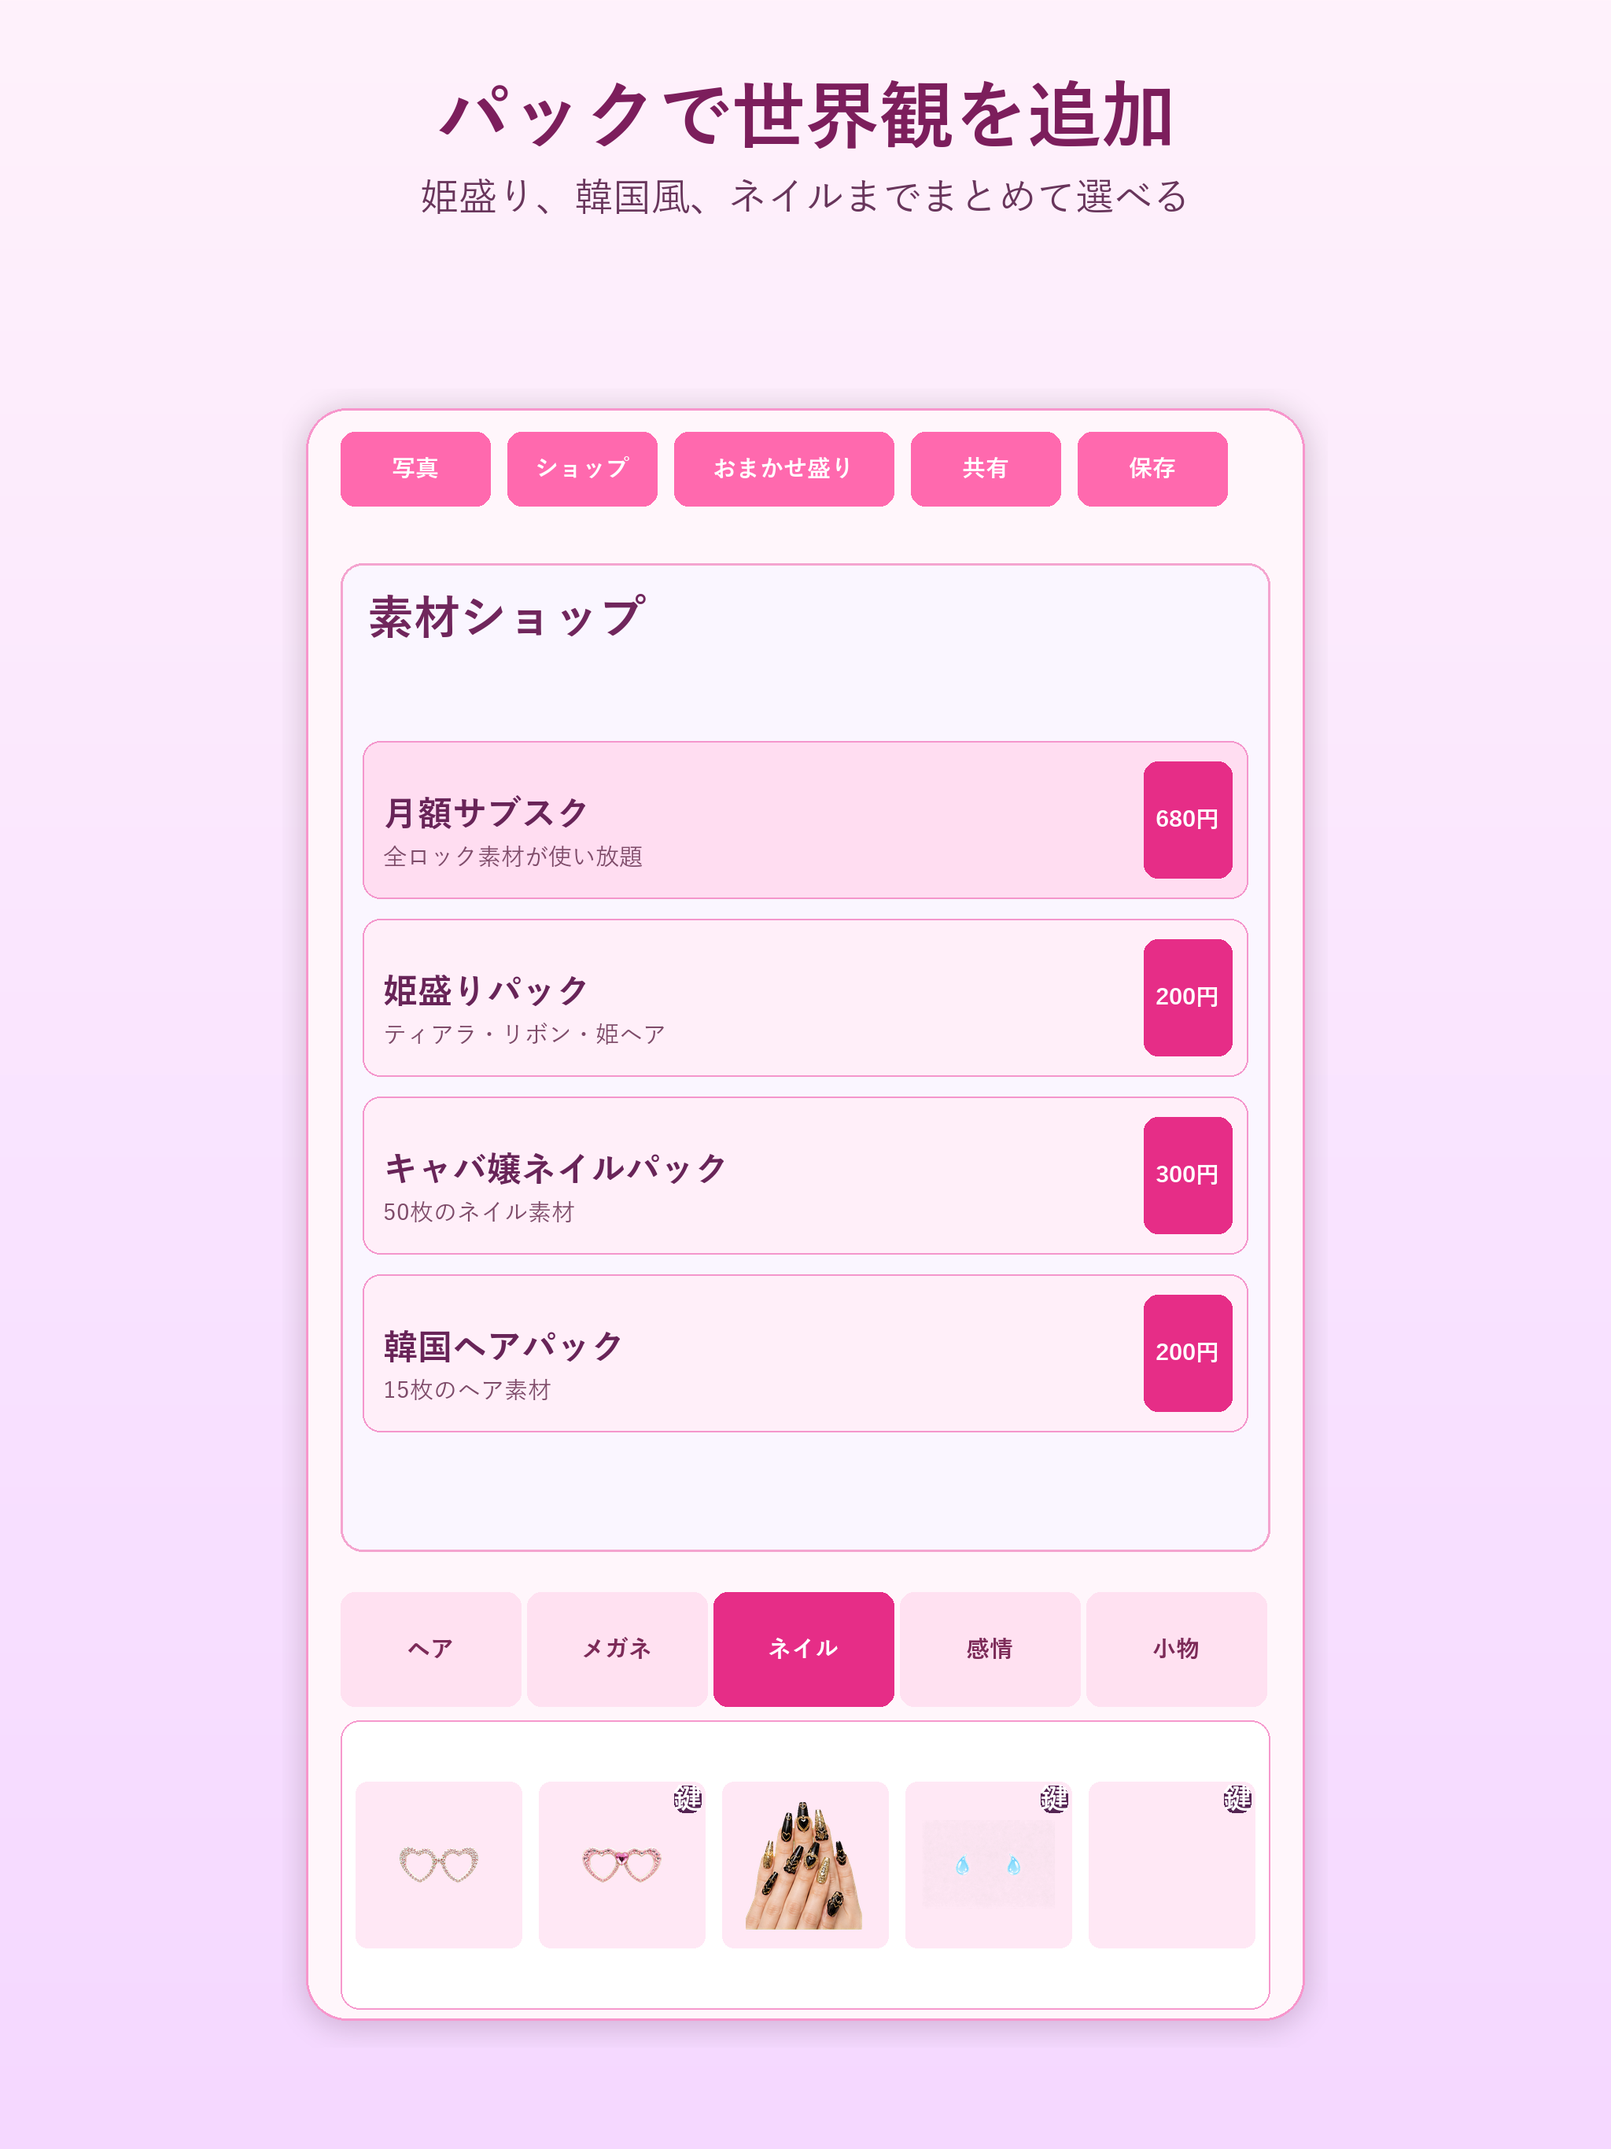
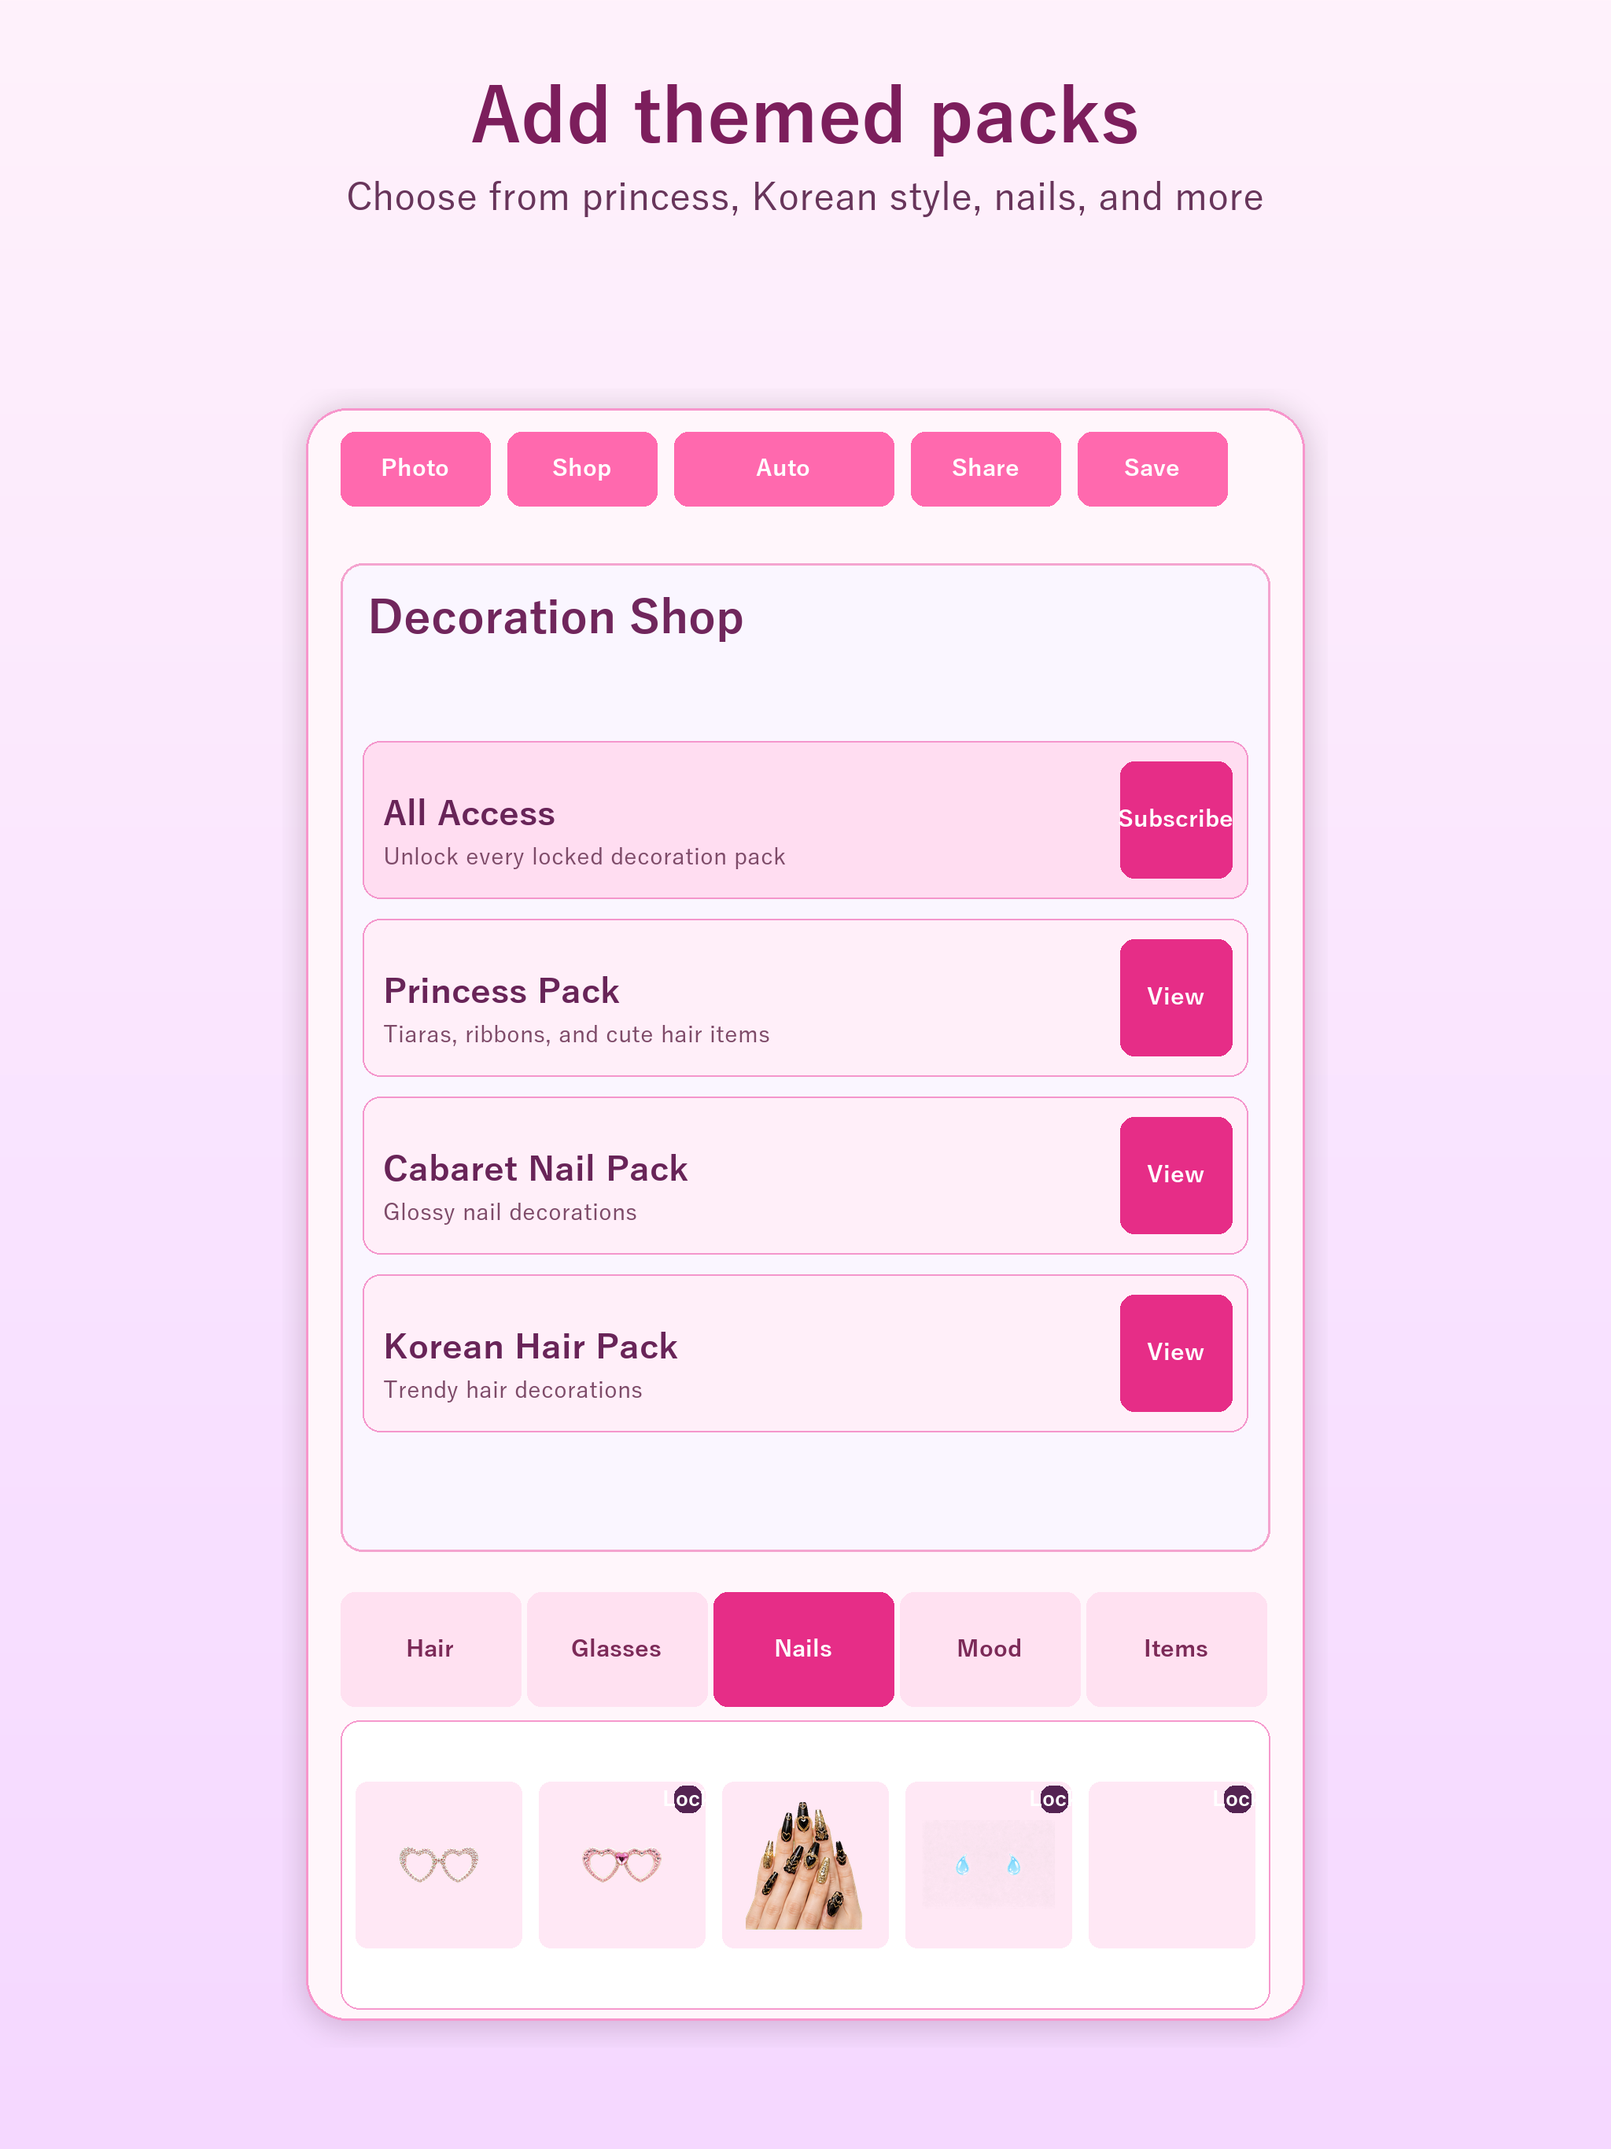
Address Morimori subscription review notes

diff --git a/ios/MorimoriPhotoMaker/MorimoriPhotoMaker/ContentView.swift b/ios/MorimoriPhotoMaker/MorimoriPhotoMaker/ContentView.swift
@@ -325,23 +325,31 @@ private struct StoreSheet: View {
         NavigationStack {
             List {
                 if let product = purchaseStore.subscriptionProduct {
-                    Section("サブスク") {
+                    Section("Subscription") {
                         productRow(
-                            title: "全ロック素材使い放題",
-                            detail: "すべての課金パックを月額で解放",
+                            title: "All Access Monthly",
+                            detail: "Auto-renews every month. Unlocks all paid decoration packs.",
                             price: product.displayPrice,
                             action: { Task { await purchaseStore.purchase(product) } }
                         )
                     }
+
+                    Section("Subscription Info") {
+                        Link("Terms of Use (EULA)", destination: URL(string: "https://www.apple.com/legal/internet-services/itunes/dev/stdeula/")!)
+                        Link("Privacy Policy", destination: URL(string: "https://snarfnet.github.io/privacy.html")!)
+                        Text("You can manage or cancel this subscription from your Apple ID subscription settings after purchase.")
+                            .font(.caption)
+                            .foregroundStyle(.secondary)
+                    }
                 }
 
-                Section("単品パック") {
+                Section("Packs") {
                     ForEach(MoriPack.allCases.filter { $0.productID != nil }) { pack in
                         let product = purchaseStore.product(for: pack)
                         productRow(
                             title: pack.title,
-                            detail: pack.itemCount.map { "\($0)点" } ?? "追加素材",
-                            price: product?.displayPrice ?? pack.priceYen.map { "\($0)円" } ?? "",
+                            detail: pack.itemCount.map { "\($0) items" } ?? "Decoration items",
+                            price: product?.displayPrice ?? pack.priceYen.map { "JPY \($0)" } ?? "",
                             highlighted: pack == promptPack,
                             purchased: purchaseStore.purchasedPacks.contains(pack),
                             action: {
@@ -353,21 +361,21 @@ private struct StoreSheet: View {
                 }
 
                 Section {
-                    Button("購入を復元") {
+                    Button("Restore Purchases") {
                         Task { await purchaseStore.restore() }
                     }
                 }
             }
-            .navigationTitle("ショップ")
+            .navigationTitle("Shop")
             .toolbar {
                 ToolbarItem(placement: .topBarTrailing) {
-                    Button("閉じる") { dismiss() }
+                    Button("Close") { dismiss() }
                 }
             }
             .task {
                 await purchaseStore.load()
             }
-            .alert("お知らせ", isPresented: Binding(get: { purchaseStore.errorMessage != nil }, set: { if !$0 { purchaseStore.errorMessage = nil } })) {
+            .alert("Notice", isPresented: Binding(get: { purchaseStore.errorMessage != nil }, set: { if !$0 { purchaseStore.errorMessage = nil } })) {
                 Button("OK", role: .cancel) {}
             } message: {
                 Text(purchaseStore.errorMessage ?? "")
@@ -393,11 +401,11 @@ private struct StoreSheet: View {
             }
             Spacer()
             if purchased {
-                Text("購入済み")
+                Text("Purchased")
                     .font(.caption.weight(.bold))
                     .foregroundStyle(.secondary)
             } else {
-                Button(price.isEmpty ? "読み込み中" : price, action: action)
+                Button(price.isEmpty ? "Loading" : price, action: action)
                     .disabled(price.isEmpty)
                     .buttonStyle(.borderedProminent)
             }

diff --git a/ios/MorimoriPhotoMaker/scripts/submit_production.py b/ios/MorimoriPhotoMaker/scripts/submit_production.py
@@ -21,25 +21,29 @@ SCREENSHOT_GROUPS = [
 
 META = {
     "ja": {
-        "description": """盛り盛りフォトメーカーは、写真に髪型、メイク、メガネ、ネイル、感情スタンプ、小物を重ねて遊べる写真デコアプリです。
+        "description": """Morimori Photo Maker lets you decorate photos with hair, makeup, glasses, nails, emotion stickers, and cute accessories.
 
-写真を選んだら、好きなカテゴリーから素材をタップするだけ。位置、大きさ、回転、透明度を調整して、自分だけの盛り盛り画像を作れます。
+Pick a photo, tap a decoration, then adjust position, scale, rotation, and opacity. Save the finished image to Photos and share it with friends or on social media.
 
-無料素材に加えて、韓国風、姫盛り、昭和バブル、ヤンキー、ネイル、感情素材などのパックも用意しています。単品パックで必要な素材だけ追加したり、月額サブスクでロック素材をまとめて使ったりできます。
+Free items are included. Optional single packs and an auto-renewable All Access monthly subscription are available in the in-app shop.
 
-作った画像は写真アプリに保存できます。SNS用のプロフィール画像、友だちへのネタ画像、イベント前の盛り加工にどうぞ。""",
-        "keywords": "写真加工,デコ,盛り,メイク,髪型,メガネ,ネイル,スタンプ,かわいい,サブスク",
-        "whatsNew": "初回リリースです。",
-        "promotionalText": "写真にメイク、髪型、メガネ、ネイルを重ねて、かわいく盛れる写真デコアプリ。",
+Terms of Use (EULA): https://www.apple.com/legal/internet-services/itunes/dev/stdeula/
+Privacy Policy: https://snarfnet.github.io/privacy.html""",
+        "keywords": "photo,decoration,makeup,hair,glasses,nails,stickers,kawaii,selfie,editor",
+        "whatsNew": "Initial release.",
+        "promotionalText": "Decorate photos with cute makeup, hair, glasses, nails, and stickers.",
         "marketingUrl": "https://snarfnet.github.io/",
         "supportUrl": "https://snarfnet.github.io/",
     },
     "en-US": {
-        "description": """Morimori Photo Maker is a cute photo decoration app for layering hairstyles, makeup, glasses, nails, emotion stickers, and accessories onto your photos.
+        "description": """Morimori Photo Maker lets you decorate photos with hair, makeup, glasses, nails, emotion stickers, and cute accessories.
 
-Pick a photo, tap a decoration, then adjust position, scale, rotation, and opacity. Create a playful edited image for your album, profile, or social posts.
+Pick a photo, tap a decoration, then adjust position, scale, rotation, and opacity. Save the finished image to Photos and share it with friends or on social media.
 
-Use free items, buy individual themed packs, or subscribe monthly to unlock all locked items.""",
+Free items are included. Optional single packs and an auto-renewable All Access monthly subscription are available in the in-app shop.
+
+Terms of Use (EULA): https://www.apple.com/legal/internet-services/itunes/dev/stdeula/
+Privacy Policy: https://snarfnet.github.io/privacy.html""",
         "keywords": "photo,decoration,makeup,hair,glasses,nails,stickers,kawaii,selfie,editor",
         "whatsNew": "Initial release.",
         "promotionalText": "Decorate photos with cute makeup, hair, glasses, nails, and stickers.",
@@ -202,7 +206,7 @@ def update_app_info_localizations(app_info_id):
     localizations = list_all(f"/appInfos/{app_info_id}/appInfoLocalizations?limit=20")
     for loc in localizations:
         locale = loc["attributes"].get("locale")
-        subtitle = "写真をかわいく盛れるデコアプリ" if locale == "ja" else "Cute photo decoration"
+        subtitle = "Cute photo decoration"
         response = api("PATCH", f"/appInfoLocalizations/{loc['id']}", data=json_body({
             "data": {
                 "type": "appInfoLocalizations",
@@ -288,7 +292,7 @@ def ensure_review_detail(version_id):
         "contactPhone": "+1 844 209 0611",
         "contactEmail": "support@snarfnet.github.io",
         "demoAccountRequired": False,
-        "notes": "ログイン不要です。写真は端末内で処理します。アプリ内課金はStoreKitで単品パック購入と月額サブスクに対応しています。",
+        "notes": "No login is required. Photos are processed on device. The subscription purchase screen includes functional Terms of Use (EULA) and Privacy Policy links. The App Store description also includes both links.",
     }
     response = api("GET", f"/appStoreVersions/{version_id}/appStoreReviewDetail")
     body = response.json() if response.text else {}

diff --git a/ios/MorimoriPhotoMaker/scripts/generate_app_store_screenshots.py b/ios/MorimoriPhotoMaker/scripts/generate_app_store_screenshots.py
@@ -103,11 +103,11 @@ def draw_app_frame(base, box, variant):
     pad = int(w * 0.035)
     stage = (x1 + pad, y1 + header_h + pad, x2 - pad, y2 - tabs_h - tray_h - pad)
 
-    buttons = ["写真", "ショップ", "おまかせ盛り", "共有", "保存"]
+    buttons = ["Photo", "Shop", "Auto", "Share", "Save"]
     bx = x1 + pad
     by = y1 + int(header_h * 0.2)
     for label in buttons:
-        bw = int(w * (0.15 if label != "おまかせ盛り" else 0.22))
+        bw = int(w * (0.15 if label != "Auto" else 0.22))
         rounded(draw, (bx, by, bx + bw, by + int(header_h * 0.62)), 18, (255, 105, 174))
         centered(draw, (bx + bw // 2, by + int(header_h * 0.31)), label, (255, 255, 255), max(18, int(w * 0.024)), True)
         bx += bw + int(w * 0.018)
@@ -127,7 +127,7 @@ def draw_app_frame(base, box, variant):
         add_sample_deco(base, stage, variant)
 
     tab_y = y2 - tabs_h - tray_h
-    tabs = ["ヘア", "メガネ", "ネイル", "感情", "小物"]
+    tabs = ["Hair", "Glasses", "Nails", "Mood", "Items"]
     tx = x1 + pad
     for index, label in enumerate(tabs):
         tw = int((w - pad * 2) / len(tabs) - 7)
@@ -168,21 +168,21 @@ def draw_shop_content(draw, stage):
     sx1, sy1, sx2, sy2 = stage
     sw, sh = sx2 - sx1, sy2 - sy1
     title_size = max(24, int(sw * 0.05))
-    text(draw, (sx1 + 34, sy1 + 38), "素材ショップ", (112, 38, 92), title_size, True)
+    text(draw, (sx1 + 34, sy1 + 38), "Decoration Shop", (112, 38, 92), title_size, True)
     rows = [
-        ("月額サブスク", "全ロック素材が使い放題", "680円"),
-        ("姫盛りパック", "ティアラ・リボン・姫ヘア", "200円"),
-        ("キャバ嬢ネイルパック", "50枚のネイル素材", "300円"),
-        ("韓国ヘアパック", "15枚のヘア素材", "200円"),
+        ("All Access", "Unlock every locked decoration pack", "Subscribe"),
+        ("Princess Pack", "Tiaras, ribbons, and cute hair items", "View"),
+        ("Cabaret Nail Pack", "Glossy nail decorations", "View"),
+        ("Korean Hair Pack", "Trendy hair decorations", "View"),
     ]
     y = sy1 + int(sh * 0.18)
-    for index, (name, detail, price) in enumerate(rows):
+    for index, (name, detail, action_label) in enumerate(rows):
         fill = (255, 239, 249) if index else (255, 221, 241)
         rounded(draw, (sx1 + 28, y, sx2 - 28, y + int(sh * 0.16)), 22, fill, (244, 150, 204), 2)
         text(draw, (sx1 + 54, y + int(sh * 0.055)), name, (104, 36, 88), max(20, int(sw * 0.038)), True)
         text(draw, (sx1 + 54, y + int(sh * 0.105)), detail, (126, 75, 105), max(16, int(sw * 0.026)))
-        rounded(draw, (sx2 - 160, y + 26, sx2 - 48, y + int(sh * 0.16) - 26), 18, (230, 45, 135))
-        centered(draw, (sx2 - 104, y + int(sh * 0.08)), price, (255, 255, 255), max(16, int(sw * 0.026)), True)
+        rounded(draw, (sx2 - 190, y + 26, sx2 - 48, y + int(sh * 0.16) - 26), 18, (230, 45, 135))
+        centered(draw, (sx2 - 119, y + int(sh * 0.08)), action_label, (255, 255, 255), max(16, int(sw * 0.026)), True)
         y += int(sh * 0.18)
 
 
@@ -209,7 +209,7 @@ def draw_asset_tray(base, box, variant):
             base.paste(image, (ax + (size - image.width) // 2, ay + (size - image.height) // 2), image)
         if locked:
             rounded(draw, (ax + size - 42, ay + 8, ax + size - 8, ay + 42), 13, (84, 35, 82))
-            centered(draw, (ax + size - 25, ay + 25), "鍵", (255, 255, 255), max(15, size // 6), True)
+            centered(draw, (ax + size - 25, ay + 25), "Lock", (255, 255, 255), max(12, size // 8), True)
         ax += size + gap
 
 
@@ -250,9 +250,9 @@ def main():
     iphone67 = (1290, 2796)
     ipad129 = (2048, 2732)
     shots = [
-        ("写真を選んで、すぐ盛れる", "髪型・メガネ・ネイルを重ねて編集", "edit"),
-        ("パックで世界観を追加", "姫盛り、韓国風、ネイルまでまとめて選べる", "shop"),
-        ("サブスクで全部解放", "月額680円でロック素材が使い放題", "all"),
+        ("Pick a photo and decorate", "Layer hair, glasses, nails, and stickers", "edit"),
+        ("Add themed packs", "Choose from princess, Korean style, nails, and more", "shop"),
+        ("Unlock more decorations", "Use single packs or All Access from the shop", "all"),
     ]
     for index, (title, subtitle, variant) in enumerate(shots, 1):
         screenshot(iphone67, title, subtitle, f"iphone67_{index:02d}.png", variant)
